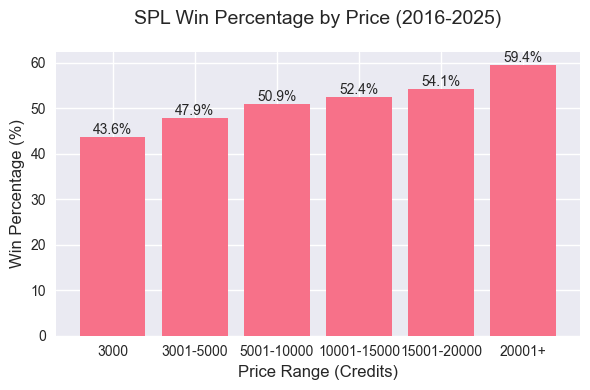
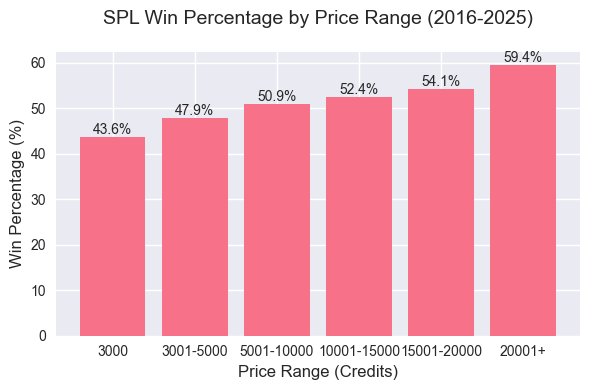
Restructured aggregregation function and added scatter plots.

Changed region(s): [[0.1525, 0.0, 0.9153, 0.0923]]

diff --git a/README.md b/README.md
@@ -23,7 +23,8 @@ A 5 year sample size is also likely too small to draw any meaningful conclusions
 
 ```python
 from grouped import aggregate_multiple_spreadsheets
-from visualization import plot_results
+from visualization import plot_results,plot_scatter 
+
 
 def extract_sheet_id(url):
     start = url.find('/d/') + 3
@@ -39,8 +40,12 @@ with open('spreadsheet_links/spreadsheets_spl.txt', 'r') as f:
                 for line in f 
                 if line.strip()]
 
-spl_results = aggregate_multiple_spreadsheets(sheet_ids)
-plot_results(spl_results, 'SPL Win Percentage by Price (2016-2025)')
+# Get both grouped results and raw data
+spl_results, spl_raw = aggregate_multiple_spreadsheets(sheet_ids)
+
+# Create both visualizations
+plot_results(spl_results, 'SPL Win Percentage by Price Range (2016-2025)')
+plot_scatter(spl_raw, 'SPL Individual Win Percentages vs Price (2016-2025)')
 ```
 
 
@@ -50,7 +55,7 @@ plot_results(spl_results, 'SPL Win Percentage by Price (2016-2025)')
 
 
     
-    SPL Win Percentage by Price (2016-2025):
+    SPL Win Percentage by Price Range (2016-2025):
     3000: 43.6%
     3001-5000: 47.9%
     5001-10000: 50.9%
@@ -60,13 +65,19 @@ plot_results(spl_results, 'SPL Win Percentage by Price (2016-2025)')
     
 
 
+    
+![png](README_files/README_2_2.png)
+    
+
+
+
 ```python
 with open('spreadsheet_links/spreadsheets_scl.txt', 'r') as f:
     sheet_ids = [extract_sheet_id(line.strip()) 
                 for line in f 
                 if line.strip()]
 
-scl_results = aggregate_multiple_spreadsheets(sheet_ids)
+scl_results, scl_raw = aggregate_multiple_spreadsheets(sheet_ids)
 plot_results(scl_results, 'SCL Win Percentage by Price (2021-2025)')
 ```
 
@@ -92,25 +103,6 @@ with open('spreadsheet_links/spreadsheets_uupl.txt', 'r') as f:
     uupl_sheet_ids = [extract_sheet_id(line.strip()) 
                 for line in f 
                 if line.strip()]
-uupl_results = aggregate_multiple_spreadsheets(uupl_sheet_ids)
+uupl_results, uupl_raw = aggregate_multiple_spreadsheets(uupl_sheet_ids)
 plot_results(uupl_results, 'UUPL Win Percentage by Price (2020-2025)')
 ```
-
-    ['1FvKxEzomLGD2eAHvp5fOHpH_NRJeJrXHIw7Mg8mIdEg', '1H1RBUL5wfuBjPOMW6FG3S0BHT58jPV-gtV7Vt4LnZYI', '1eJRkmYTg8K3ddKO98pdqQqD9pTb2nZlvei-0dAqG6ow', '1z0KW3HKt17X_RUd1GBOcAKMMKbqyEbo6Qk57uOgsSOo', '1RtBBR7OnMA-cujWgEd39aB1zAS_npzI4mHEZ8jmOL24']
-    
-
-
-    
-![png](README_files/README_4_1.png)
-    
-
-
-    
-    UUPL Win Percentage by Price (2020-2025):
-    3000: 40.9%
-    3001-5000: 44.8%
-    5001-10000: 51.8%
-    10001-15000: 54.3%
-    15001-20000: 45.8%
-    20001+: 58.4%
-    
